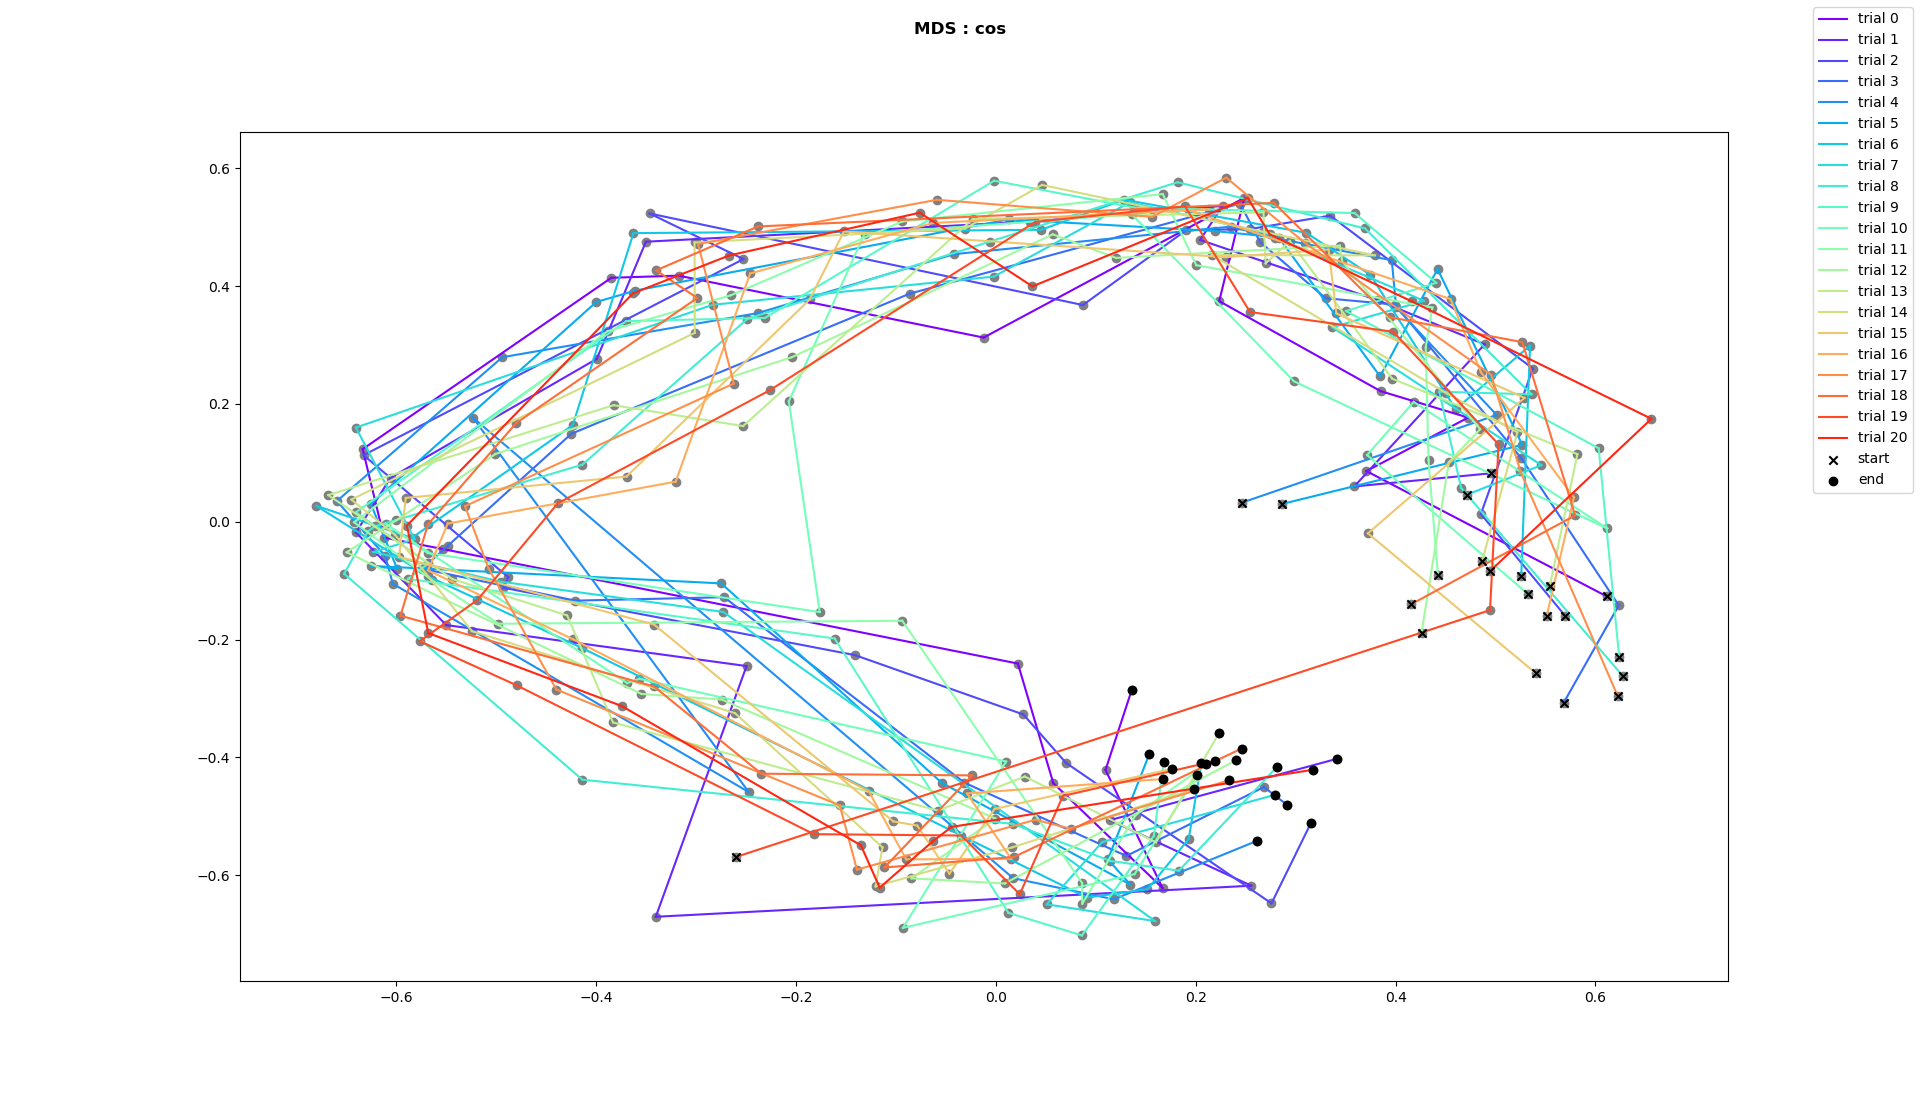
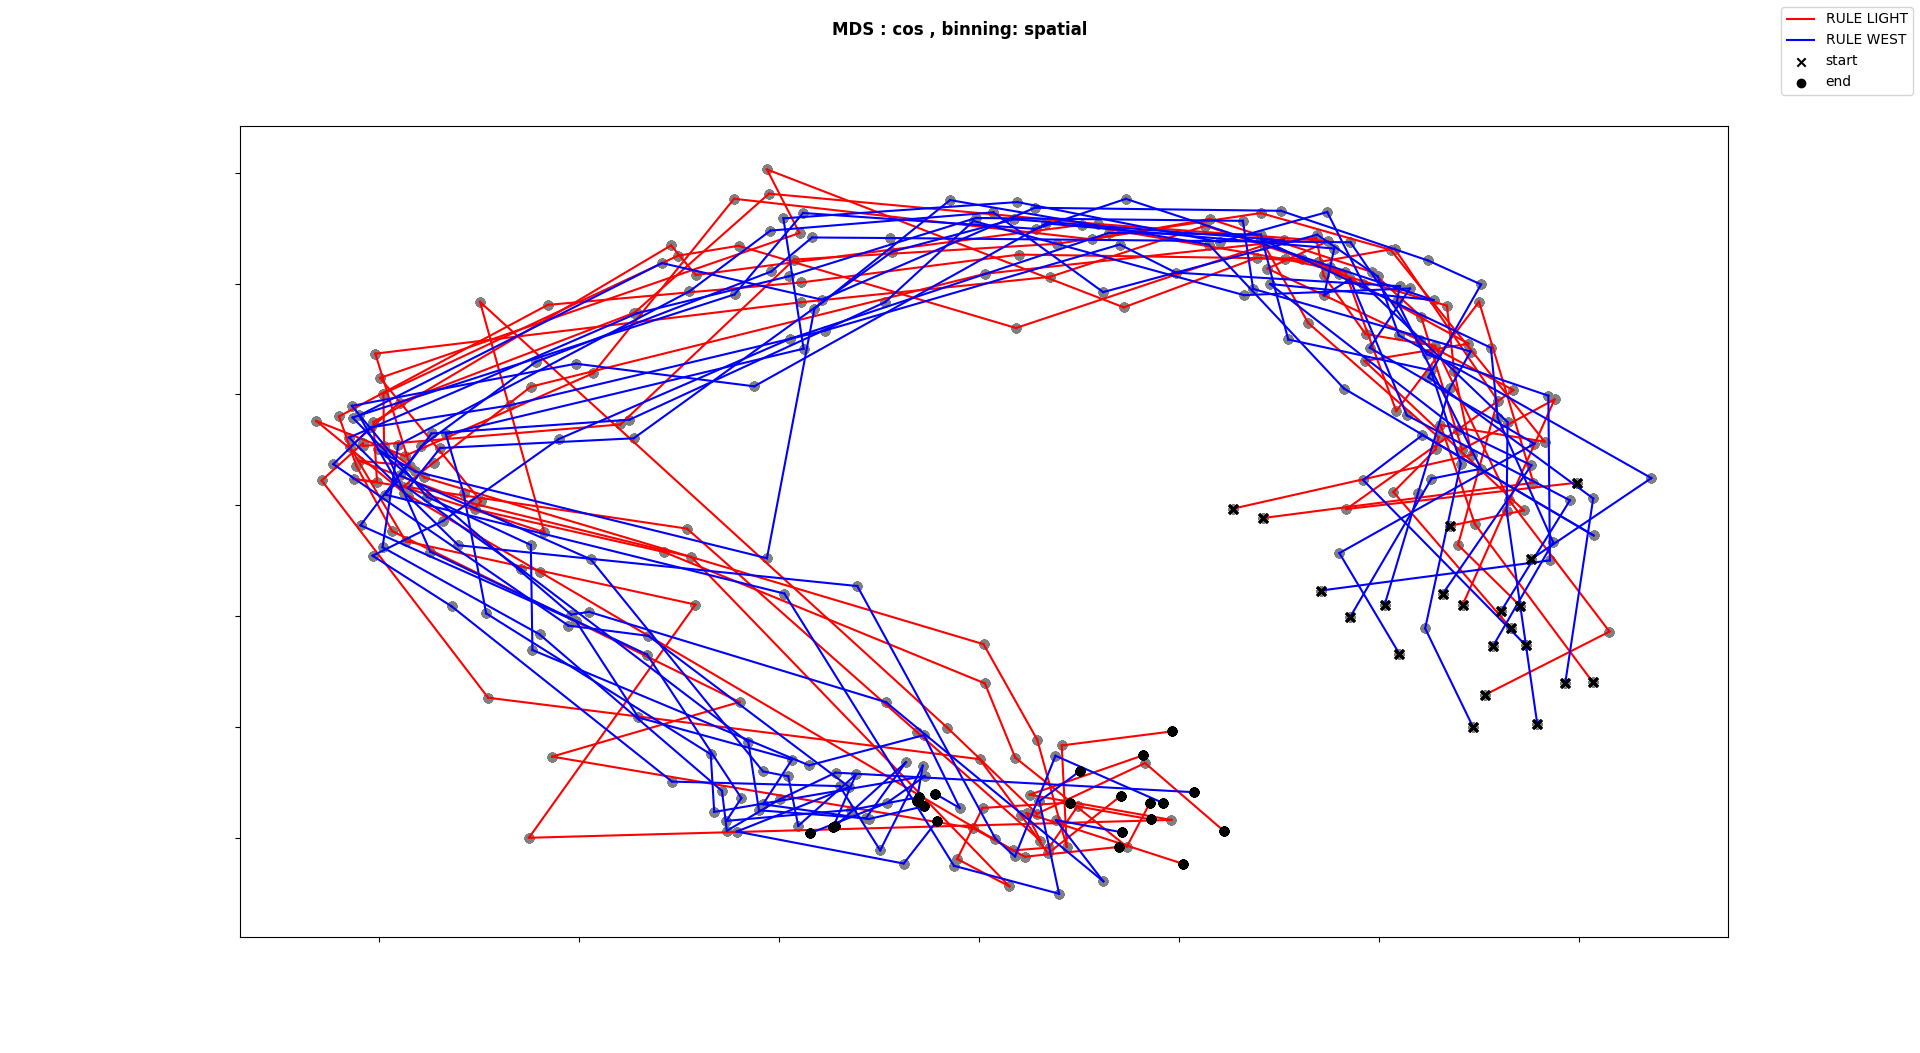
new results file

diff --git a/main.py b/main.py
@@ -156,7 +156,7 @@ if __name__ == '__main__':
     # second parameter of method:
     # MDS --> p2: number of components
     # PCA --> p2: number of components
-    param_dic["dr_method_p2"] = 3
+    param_dic["dr_method_p2"] = 2
 
     # number of trials to compare
     param_dic["nr_of_trials"] = 21
@@ -231,16 +231,16 @@ if __name__ == '__main__':
 
     # create binned dictionaries
     # ------------------------------------------------------------------------------------------------------------------
-    dic = BinDictionary(param_dic)
+    # dic = BinDictionary(param_dic)
     # dic.create_spatial_bin_dictionary(res_data_set_2, whl_lin_data_set_2, param_dic["data_descr"][0])
     # dic.create_spatial_bin_dictionary(res_data_set_6, whl_lin_data_set_6, param_dic["data_descr"][1])
-    dic.create_spatial_bin_dictionaries_transition(res_data_set_4, whl_lin_data_set_4, new_rule_trial,
-                                                   param_dic["data_descr"][0], param_dic["data_descr"][1])
-    dic.combine_bin_dictionaries("RULE LIGHT", "SWITCH_RULE LIGHT", "RULE LIGHT_2_4")
+    # dic.create_spatial_bin_dictionaries_transition(res_data_set_4, whl_lin_data_set_4, new_rule_trial,
+    #                                                param_dic["data_descr"][0], param_dic["data_descr"][1])
+    # dic.combine_bin_dictionaries("RULE LIGHT", "SWITCH_RULE LIGHT", "RULE LIGHT_2_4")
 
     # compare RULE A and RULE B
     # ------------------------------------------------------------------------------------------------------------------
-    new_compare = Analysis("RULE LIGHT_2_4", "RULE WEST", param_dic)
+    # new_compare = Analysis("RULE LIGHT_2_4", "RULE WEST", param_dic)
     # new_compare.plot_spatial_information()
     # new_compare.cross_cos_diff()
     # new_compare.cross_cos_diff_spat_trials()
@@ -250,7 +250,7 @@ if __name__ == '__main__':
     # new_compare.remove_cells([46,69])
     # new_compare.cell_contribution()
     # new_compare.cell_contribution_average_over_trials("cos")
-    new_compare.cell_contribution_average_over_trials_random("cos",200)
+    # new_compare.cell_contribution_average_over_trials_random("cos",200)
 
 ########################################################################################################################
 #   TRANSITION ANALYSIS (RULE A --> RULE B)
@@ -267,7 +267,7 @@ if __name__ == '__main__':
     # QUANTITATIVE ANALYSIS
     ####################################################################################################################
 
-    # new_transition = Analysis("SWITCH_RULE LIGHT", "SWITCH_RULE WEST", param_dic)
+    # new_transition = Analysis("RULE LIGHT_2_4", "SWITCH_RULE WEST", param_dic)
     # new_transition.cross_cos_diff()
     # new_transition.cross_cos_diff_spat_trials()
     # new_transition.characterize_cells()
@@ -296,10 +296,11 @@ if __name__ == '__main__':
     # QUANTITATIVE ANALYSIS
     ####################################################################################################################
 
-    # new_state_transition = StateTransitionAnalysis([res_data_set_2, res_data_set_6], [whl_lin_data_set_2,
-    #                                                                                   whl_lin_data_set_6], param_dic)
+    new_state_transition = StateTransitionAnalysis([res_data_set_2, res_data_set_6], [whl_lin_data_set_2,
+                                                                                      whl_lin_data_set_6], param_dic)
 
     # euclidean distance between subsequent steps
     # ------------------------------------------------------------------------------------------------------------------
-    # new_state_transition.compare_distance("cos")
-    # new_state_transition.compare_operations()
+    new_state_transition.compare_distance("cos")
+    new_state_transition.compare_distance("L1")
+    new_state_transition.compare_operations()

diff --git a/results/analysis_mjc189-1905-0517_sa_1_ga_3.md b/results/analysis_mjc189-1905-0517_sa_1_ga_3.md
@@ -1,0 +1,193 @@
+# TRANSITION FOR RULE SWITCH (_4): HPC
+
+Can we identify remapping/ changes in the dynamics during the rule switch?
+
+## Multidimensional scaling using cosine distance
+
+**Analysis methods**:
+* same trajectories (start arm & goal arm)
+* using concatenated trials for transformation and separating them afterwards
+* filtered data where speed < 5 cm/s and all zero population vectors
+* dimensionality reduction: MDS and cosine
+
+
+![alt text](../plots/mjc189-1905-0517/man_transition_one_plot_MDS_cos_2D.png)
+
+![alt text](../plots/mjc189-1905-0517/man_transition_MDS_cos_3Dspatial.png)
+
+* separation visible
+
+![alt text](../plots/mjc189-1905-0517/man_transition_MDS_cos_3Dspatial_colored_position.png)
+
+* remapping most obvious in goal arm
+
+## Quantification 
+
+**Overal distance**:
+* within rule cos-distance vs. accross rules cos-distance
+  * calculate pair-wise cos distance between trials of RULE 1 and RULE 2 for each
+spatial bin
+  * plot MED/MAD of these pair-wise distances for each spatial bin
+  * normalization: divide median of across-rule cos distances by within rule cos median
+distance for each spatial bin
+  * mann-whitney u test, alpha = 0.01
+* filtered data where speed < 5 cm/s and all zero population vectors
+
+![alt text](../plots/mjc189-1905-0517/quant_transition_cos.png)
+
+* can we tell something from different results of the normalization by rule 1 and rule b?
+
+histograms of within vs. across rule cos distance
+
+![alt text](../plots/mjc189-1905-0517/quant_transition_cos_histograms.png)
+
+**Separating trials**:
+* for each spatial bin and trial after the switch:
+    * pair-wise cos differences between trail and each trial before the switch
+    --> get array for all comparisons
+    * taking the median
+
+![alt text](../plots/mjc189-1905-0517/quant_transition_cos_trials.png)
+
+* continuous remapping for certain spatial positions. To measure the actual effect the
+across-trial variability without rule switch needs to be taken into account.
+
+## Identifying cells that contribute to difference
+
+* average firing rate using both rules
+* effect size: diff / pooled std
+* contribution to cos diff: leave-one-out analysis
+
+![alt text](../plots/mjc189-1905-0517/quant_transition_cos_cells_char.png)
+
+* removing cells 46 and 69 significantly reduces the cosine difference for the rule switch
+for the last couple of spatial bins
+
+![alt text](../plots/mjc189-1905-0517/quant_transition_cos_trials_2_removed_cells.png)
+
+* difference is not statistically significant anymore:
+
+![alt text](../plots/mjc189-1905-0517/quant_transition_cos_2_removed_cells.png)
+
+
+
+# RULE LIGHT VS. RULE WEST
+
+Do we see significant differences in the dynamics of the system for two different rules?
+
+## Multidimensional scaling using cosine distance
+**Analysis methods**:
+* same trajectories (start arm & goal arm)
+* using concatenated trials for transformation and separating them afterwards
+* filtered data where speed < 5 cm/s and all zero population vectors
+* dimensionality reduction: MDS and cosine
+
+### Rule: light
+
+![alt text](../plots/mjc189-1905-0517/man_compare_one_plot_light_MDS_cos_2D.png)
+
+* variability is quite different for different bins (greater in the center)
+
+### Rule: west
+
+![alt text](../plots/mjc189-1905-0517/man_compare_one_plot_west_MDS_cos_2D.png)
+
+### Light vs. west
+
+![alt text](../plots/mjc189-1905-0517/man_compare_MDS_cos_3D.png)
+
+* apparent difference between both rules
+
+## Quantification
+
+Do we see significant differences in the dynamics of the system for two different rules?
+
+**Overal distance: RULE 1 (_2/_4) vs. RULE 2 (_6)**:
+
+* calculate pair-wise cos distance between trials of RULE 1 and RULE 2 for each
+spatial bin
+* plot MED/MAD of these pair-wise distances for each spatial bin
+* normalization: divide median of across-rule cos distances by within rule cos median
+distance for each spatial bin
+* significance: across-rules distance vs. union of within-rule distances
+
+![alt text](../plots/mjc189-1905-0517/quant_compare_cos_2_4_6.png)
+
+distribution of within and across rule distance:
+
+![alt text](../plots/mjc189-1905-0517/quant_compare_cos_histograms.png)
+
+**Separating trials: RULE 1 (_2,_4) vs. RULE 2 (_6)**:
+* for each spatial bin and trial of RULE 2:
+    * pair-wise cos differences between trial and each trial of RULE 1
+    --> get array for all comparisons
+    * taking the median
+
+![alt text](../plots/mjc189-1905-0517/quant_compare_cos_trials_2_4_6.png)
+
+* relatively constant population states
+* between 60 and 110 cm there seem to be clusters of different dynamics
+    * can maybe check with parameters of the experiments what the difference might be
+    due to
+
+## Identifying cells that contribute to difference: RULE 1 (_2,_4) vs. RULE 2 (_6):
+
+* average firing rate using both rules
+* effect size: diff / pooled std
+* contribution to cos diff: leave-one-out analysis
+
+![alt text](../plots/mjc189-1905-0517/quant_compare_cos_cells.png)
+
+* removing cells 46 and 69:
+
+![alt text](../plots/mjc189-1905-0517/quant_compare_cos_trials_2_removed_cells.png)
+
+* difference seem to depend on other cells after the initial transition as well:
+
+![alt text](../plots/mjc189-1905-0517/quant_compare_cos_2_removed_cells.png)
+
+* significance is still given for the last 30 cm
+
+## Comparison for same rule before/after sleep
+
+* remapping also happens without a rule switch --> seems to be happening
+in different spatial locations
+
+![alt text](../plots/mjc189-1905-0517/quant_compare_cos_RULE1.png)
+
+![alt text](../plots/mjc189-1905-0517/quant_compare_cos_trials_RULE1.png)
+
+# GLOBAL VS. LOCAL REMAPPING
+
+## rule light vs. rule west during rule switch
+
+* using alternative to leaving-one-out analysis
+  
+* using shuffling:
+
+  * select subset of n cells randomly and calculate cosine difference
+  * repeat for 200 times
+
+![alt text](../plots/mjc189-1905-0517/quant_cell_contrib_2_4_6_shuffling.png)
+
+* TODO: incl. synthetic data plot 
+
+# STATE TRANSITION ANALYSIS
+
+## L1 norm between subsequent population vectors
+
+![alt text](../plots/mjc189-1905-0517/quant_state_transition_L1.png)
+
+## Cosine distance between subsequent population vectors
+
+![alt text](../plots/mjc189-1905-0517/quant_state_transition_cos.png)
+
+* what is the explanation for 120 deg?
+
+## Operations 
+
+* using difference vectors between two subsequent population vectors 
+* making difference vectors signed binary
+* counting -1 (silencing), 0 (unchanged), +1 (activated)
+
+![alt text](../plots/mjc189-1905-0517/quant_state_transition_operations.png)
